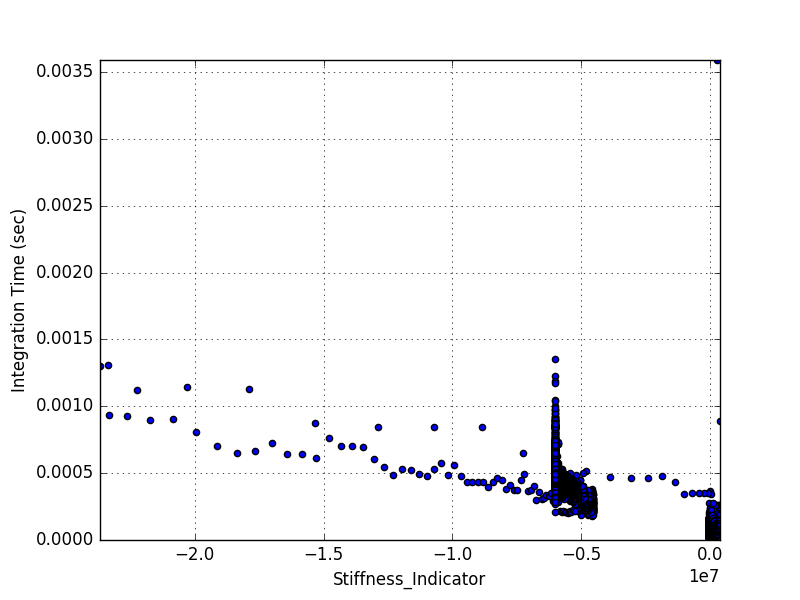
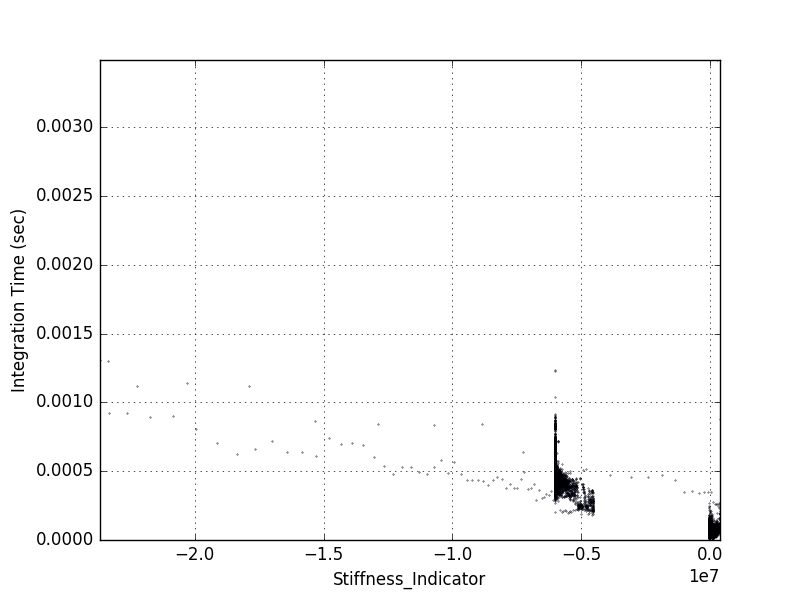
Reran a PaSR and non-PaSR case.

diff --git a/A_Posteriori_Stiffness_Detection.py b/A_Posteriori_Stiffness_Detection.py
@@ -298,13 +298,13 @@ findtimescale = False
 
 # Make this true if you want to test all of the values across the PaSR.
 # Otherwise, this will run a single autoignition at particle 92, timestep 4.
-PaSR = False
+PaSR = True
 pasrfilesloaded = 9
 
 # Define the range of the computation.
-dt = 1.e-6
+dt = 1.e-8
 tstart = 0.
-tstop = 0.2
+tstop = 5 * dt
 tlist = np.arange(tstart, tstop + 0.5 * dt, dt)
 
 # ODE Solver parameters.
